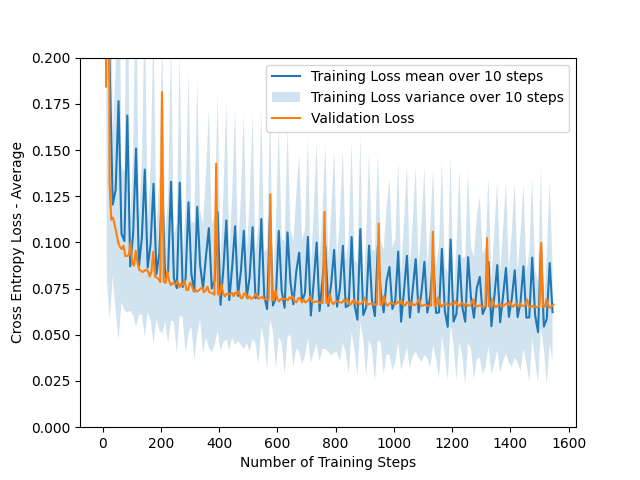
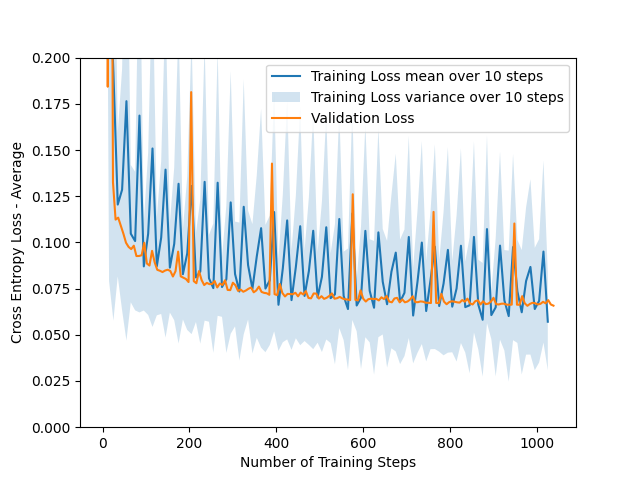
implement 2d early stopping

diff --git a/assignment1/trainer.py b/assignment1/trainer.py
@@ -90,5 +90,22 @@ class BaseTrainer:
 
                     # TODO (Task 2d): Implement early stopping here.
                     # You can access the validation loss in val_history["loss"]
+                    EARLY_STOPPING = True
+
+                    if EARLY_STOPPING:
+                        if len(val_history["loss"]) > 10:
+                            val_history_keys = list(val_history["loss"].keys())
+                            
+                            prev_best_loss = val_history["loss"][val_history_keys[-11]] # because we need to check against the 10 next steps, so this needs to be compared to the -11th step
+                            better_loss_found = False
+                            for new_val_loss_key in val_history_keys[-10:]:
+                                new_loss = val_history["loss"][new_val_loss_key]
+                                if new_loss < prev_best_loss:
+                                    better_loss_found = True
+                                    break 
+
+                            if not better_loss_found:
+                                return train_history, val_history
+
                 global_step += 1
         return train_history, val_history

diff --git a/assignment1/task2.py b/assignment1/task2.py
@@ -70,7 +70,8 @@ class LogisticTrainer(BaseTrainer):
 
 def main():
     # hyperparameters DO NOT CHANGE IF NOT SPECIFIED IN ASSIGNMENT TEXT
-    num_epochs = 50
+    num_epochs = 50 # for 2b-c
+    num_epochs = 500 # for 2d-e
     learning_rate = 0.05
     batch_size = 128
     shuffle_dataset = False
